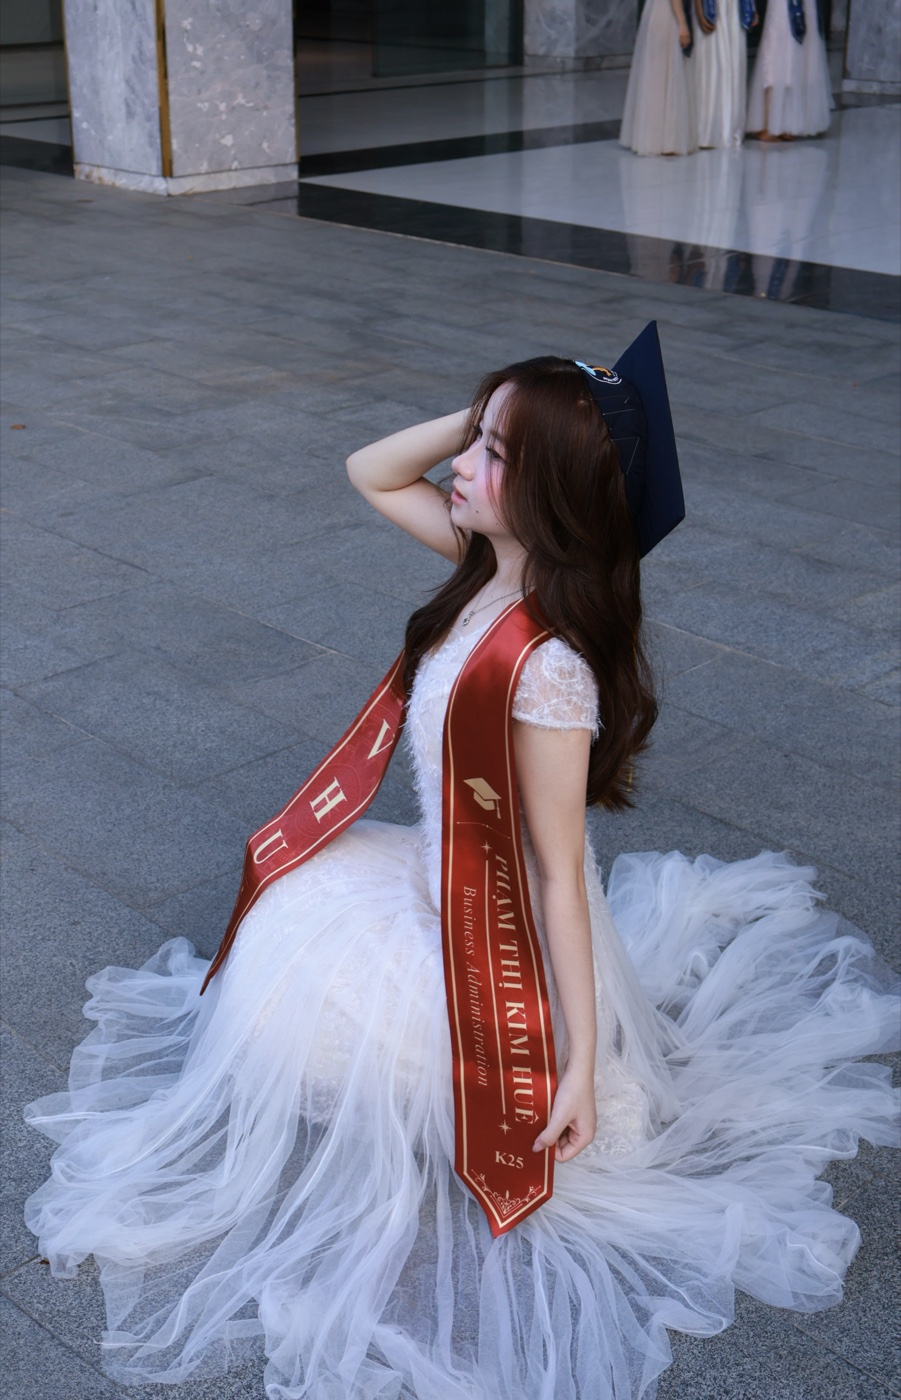
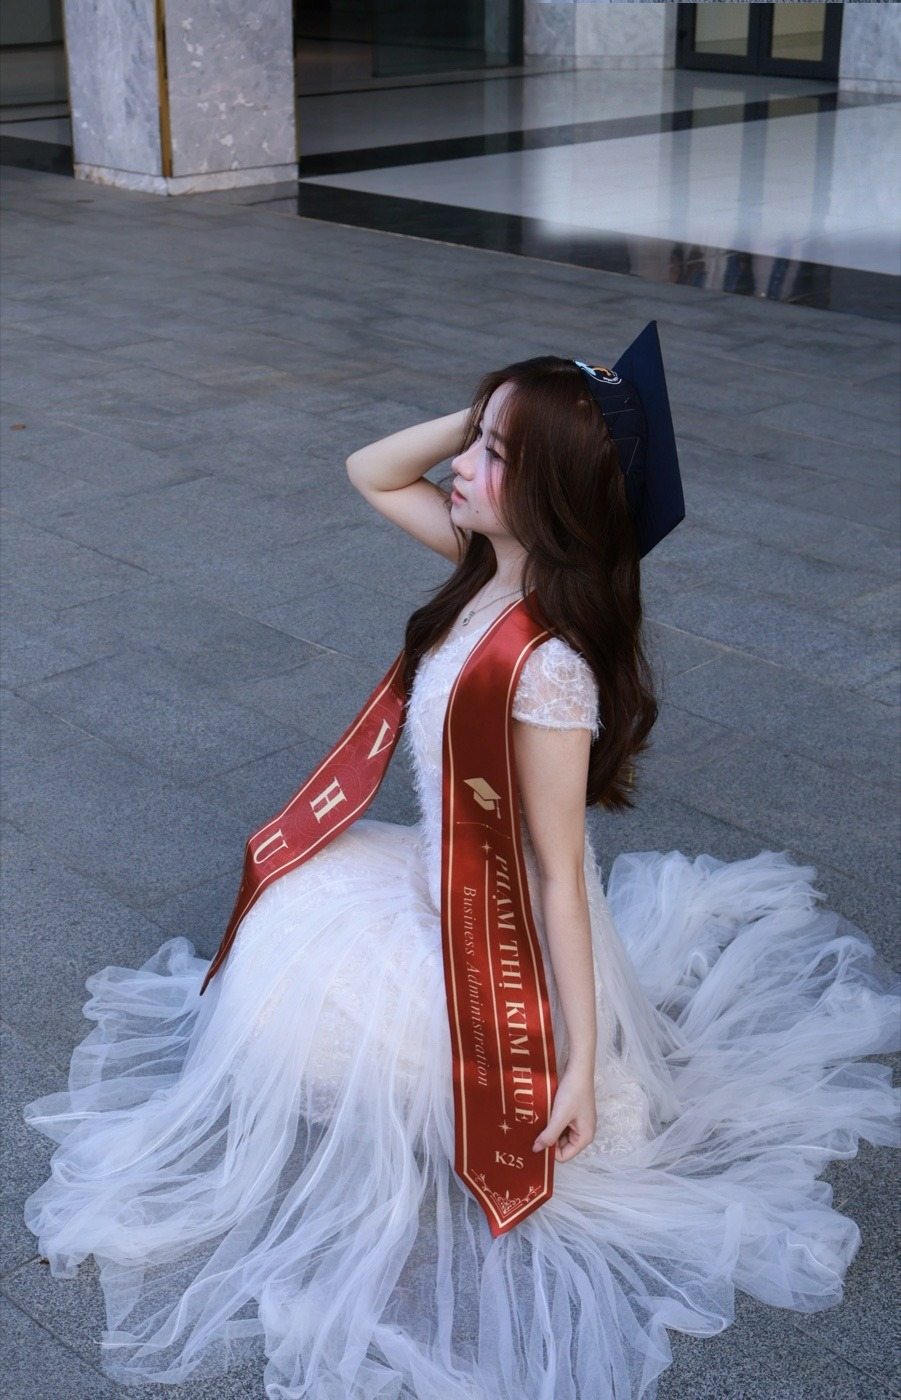
Retouch photo 4 and 7 to seamlessly remove background people and feet

Changed region(s): [[0.5905, 0.0, 1.0, 0.1843]]

diff --git a/index.html b/index.html
@@ -20,7 +20,7 @@
   <link href="https://fonts.googleapis.com/css2?family=Cormorant+Garamond:wght@500;600;700&family=Dancing+Script:wght@500;600;700&family=Great+Vibes&family=Montserrat:wght@400;500;600;700;800;900&display=swap" rel="stylesheet">
 
   <!-- Stylesheet -->
-  <link rel="stylesheet" href="css/style.css?v=38">
+  <link rel="stylesheet" href="css/style.css?v=39">
 </head>
 <body class="invitation-pending">
 
@@ -325,8 +325,8 @@
           <div class="memory-photo-card collage-slot-1 album-grid-item" data-full="assets/photos/photo_8.jpg">
             <img src="assets/photos/photo_8.jpg" alt="Khoảnh khắc tốt nghiệp 1" loading="lazy" />
           </div>
-          <div class="memory-photo-card collage-slot-2 album-grid-item" data-full="assets/photos/photo_4.jpg">
-            <img src="assets/photos/photo_4.jpg" alt="Khoảnh khắc tốt nghiệp 2" loading="lazy" />
+          <div class="memory-photo-card collage-slot-2 album-grid-item" data-full="assets/photos/photo_4.jpg?v=2">
+            <img src="assets/photos/photo_4.jpg?v=2" alt="Khoảnh khắc tốt nghiệp 2" loading="lazy" />
           </div>
           <div class="memory-photo-card collage-slot-3 album-grid-item" data-full="assets/photos/photo_6.jpg">
             <img src="assets/photos/photo_6.jpg" alt="Khoảnh khắc tốt nghiệp 3" loading="lazy" />
@@ -334,8 +334,8 @@
           <div class="memory-photo-card collage-slot-4 album-grid-item" data-full="assets/photos/photo_5.jpg">
             <img src="assets/photos/photo_5.jpg" alt="Khoảnh khắc tốt nghiệp 4" loading="lazy" />
           </div>
-          <div class="memory-photo-card collage-slot-5 album-grid-item" data-full="assets/photos/photo_7.jpg">
-            <img src="assets/photos/photo_7.jpg" alt="Khoảnh khắc tốt nghiệp 5" loading="lazy" />
+          <div class="memory-photo-card collage-slot-5 album-grid-item" data-full="assets/photos/photo_7.jpg?v=2">
+            <img src="assets/photos/photo_7.jpg?v=2" alt="Khoảnh khắc tốt nghiệp 5" loading="lazy" />
           </div>
         </div>
       </div>
@@ -459,7 +459,7 @@
 
   <!-- Scripts chức năng -->
   <script src="js/confetti.browser.min.js"></script>
-  <script src="js/config.js?v=38"></script>
-  <script src="js/app.js?v=38"></script>
+  <script src="js/config.js?v=39"></script>
+  <script src="js/app.js?v=39"></script>
 </body>
 </html>
